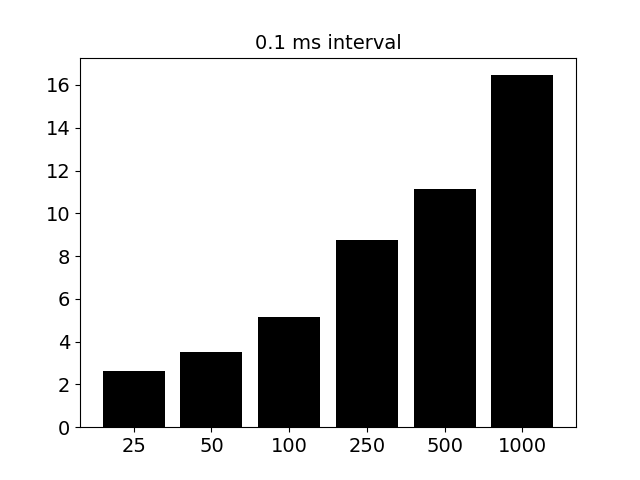
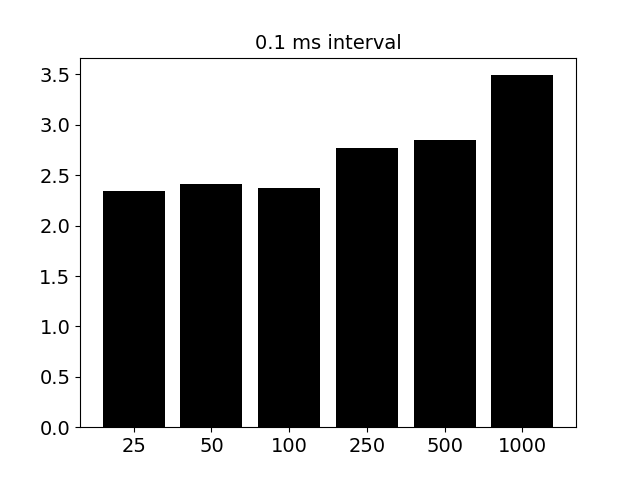
Evaluation fix

diff --git a/evaluation/mqtt/plot/latency.py b/evaluation/mqtt/plot/latency.py
@@ -10,11 +10,11 @@ l_1 = next(csvreader)
 l_01 = next(csvreader)
 
 FONT_SIZE = 14
-FIREWALL = True
+FIREWALL = False
 
 x = ["25", "50", "100", "250", "500", "1000"]
 y_axis = [l_10, l_1, l_01]
-interval = ["10", "1", "0.1"]
+interval = ["1", "0.1", "0.01"]
 
 
 def float_array(array):

diff --git a/evaluation/coap/plot/latency.py b/evaluation/coap/plot/latency.py
@@ -14,7 +14,7 @@ FIREWALL = True
 
 x = ["25", "50", "100", "250", "500", "1000"]
 y_axis = [l_10, l_1, l_01]
-interval = ["10", "7.5", "5"]
+interval = ["1", "0.75", "0.5"]
 
 
 def float_array(array):
